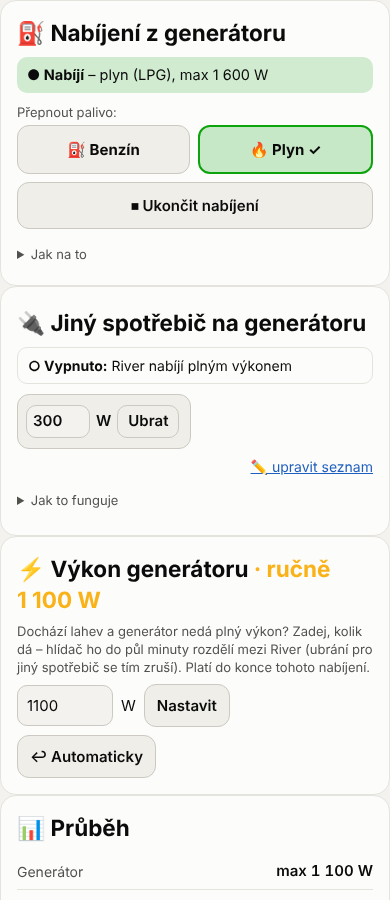
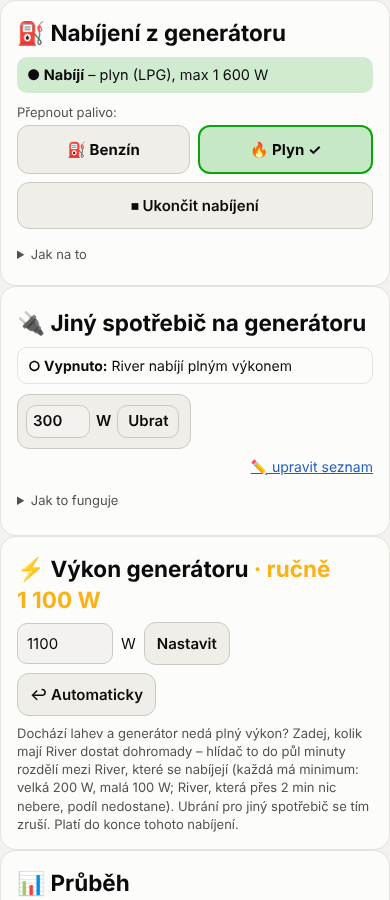
6.47: průběh – generátor dává / pro River nastaveno; výkon – tlačítka nahoře
Claude-Session: https://claude.ai/code/session_01BTmugoLEtFmEP1Ycz3EPBj

Changed region(s): [[0.0308, 0.6844, 0.9538, 0.9956], [0.7077, 0.9333, 0.9538, 0.9956]]

diff --git a/web/index.html b/web/index.html
@@ -4,7 +4,7 @@
 <meta charset="utf-8">
 <meta name="viewport" content="width=device-width,initial-scale=1,viewport-fit=cover">
 <title>Chata</title>
-<script>const WEB_VER = "6.46", FLIP_VER = "1.9.18";  // FLIP_VER = nejnovější aplikace pro Flip v repozitáři</script>
+<script>const WEB_VER = "6.47", FLIP_VER = "1.9.18";  // FLIP_VER = nejnovější aplikace pro Flip v repozitáři</script>
 <meta name="theme-color" content="#1a1a19">
 <link rel="manifest" href="manifest.json">
 <link rel="apple-touch-icon" href="apple-touch-icon.png">
@@ -2548,7 +2548,10 @@ function genPlanHtml(d){
   // 2) Průběh
   if(run){
     h += card("📊 Průběh", (P.wait ? `<div class="sub" style="margin-bottom:4px">Nabíjení začalo – za 30 s nastavím výkony.</div>` : "")
-      + rowI("Generátor", `${P.gw!=null ? nf(P.gw)+" W z " : "max "}${nf(P.gmax)} W${P.gd && P.gd.fuel!=null && P.fuel==="benzin" ? ` · benzín v nádrži ${nf(P.gd.fuel)} %` : ""}`)
+      // 6.47 (Petr: „397 W z 600 W – co to znamená?“): zvlášť kolik generátor teď dává a kolik je pro River nastaveno
+      + rowI("Generátor teď dává", P.gw!=null ? `${nf(P.gw)} W` : "–")
+      + rowI("Pro River nastaveno", `${nf(P.man_w || P.budget || P.gmax)} W${P.man_w ? " (ručně)" : ` (automaticky, ${P.fuel==="lpg" ? "plyn" : "benzín"})`}`)
+      + rowI("Palivo", `${P.fuel==="lpg" ? "plyn" : "benzín"}${P.gd && P.gd.fuel!=null && P.fuel==="benzin" ? ` · v nádrži ${nf(P.gd.fuel)} %` : ""}`)
       + (P.small ? rowI("Malá River (neovládaná)", `bere ~${nf(P.small)} W${P.small_soc!=null?` · ${nf(P.small_soc)} %`:""}`) : "")
       + P.rv.map(r=>rowI(`<b>${escH(r.n||"River")}</b>`, `${nf(r.soc)} % · ${r.w?`nastaveno ${nf(r.w)} W`:"200 W"} (bere ${nf(r.in)} W) · plná ${relDay(r.fin)} ~${hmT(r.fin)}`)).join("")
       + rowI("Celkem do River", `${nf(P.tot_in)} W · za toto nabíjení ${kWh(P.wh)} (od ${hmT(P.t_on)})`)
@@ -2577,10 +2580,11 @@ function manHtml(P, run, gmax){
   const ins = `font:inherit;width:96px;padding:9px;border-radius:10px;border:1px solid var(--btnline);background:var(--bg);color:var(--text)`;
   let w0 = mw || 1200; try{ w0 = mw || +localStorage.getItem("manW") || 1200; }catch(_){}
   return `<h2 style="margin:0 0 6px">⚡ Výkon generátoru${mw ? ` <span style="color:var(--warn)">· ručně ${nf(mw)} W</span>` : P && P.manual ? ` <span style="color:var(--warn)">· nastavuješ v EcoFlow</span>` : ` <span class="sub" style="font-weight:400">· automaticky ${nf(gmax)} W</span>`}</h2>
-    <div class="sub" style="margin:0 0 8px">Dochází lahev a generátor nedá plný výkon? Zadej, kolik mají River dostat dohromady – hlídač to do půl minuty rozdělí mezi River, které se nabíjejí (každá má minimum: velká 200 W, malá 100 W; River, která přes 2 min nic nebere, podíl nedostane). Ubrání pro jiný spotřebič se tím zruší. Platí do konce ${run ? "tohoto" : "příštího"} nabíjení.</div>
+
     <div style="display:flex;gap:8px;align-items:center;flex-wrap:wrap"><input id="man_w" type="number" inputmode="numeric" min="300" max="2500" step="50" value="${w0}" style="${ins}"> W
       <button onclick="genManual(+$('man_w').value, this)" style="${bs}">Nastavit</button>
-      ${mw || (P && P.manual) ? `<button onclick="genManual(0, this)" style="${bs}">↩ Automaticky</button>` : ""}</div>`;
+      ${mw || (P && P.manual) ? `<button onclick="genManual(0, this)" style="${bs}">↩ Automaticky</button>` : ""}</div>
+    <div class="sub" style="margin:8px 0 0">Dochází lahev a generátor nedá plný výkon? Zadej, kolik mají River dostat dohromady – hlídač to do půl minuty rozdělí mezi River, které se nabíjejí (každá má minimum: velká 200 W, malá 100 W; River, která přes 2 min nic nebere, podíl nedostane). Ubrání pro jiný spotřebič se tím zruší. Platí do konce ${run ? "tohoto" : "příštího"} nabíjení.</div>`;
 }
 async function genManual(v, el){
   const tok = store.get("ghtok");

diff --git a/CHANGELOG.md b/CHANGELOG.md
@@ -3,6 +3,10 @@
 Číslo verze: soubor `VERSION` (hlídač), `WEB_VER` / `FLIP_VER` ve `web/index.html`, `versionName` v `android/app/build.gradle`.
 Každá změna = +0.1. Aplikace pro Flip dostane nové číslo jen, když se mění její kód (FLIP_VER pak ukazuje, co je nejnovější).
 
+## 6.47 – 19. 11. 2026
+- Generátor → Průběh: místo „Generátor 397 W z 600 W“ dva řádky – „Generátor teď dává 397 W“ a „Pro River nastaveno 600 W (ručně / automaticky)“, palivo zvlášť.
+- ⚡ Výkon generátoru: nejdřív zadání a tlačítka, vysvětlení pod nimi.
+
 ## 6.46 – 19. 11. 2026
 - Nabíjení z generátoru: River, která přes 2 min nic nebere, i když má nastavený výkon (nezapojená do generátoru), nedostane podíl – dostanou ho ostatní. Jakmile začne brát, zase se počítá. (Malá dostávala 200 W a brala 0 W → velké jen 2× 200 W.)
 
